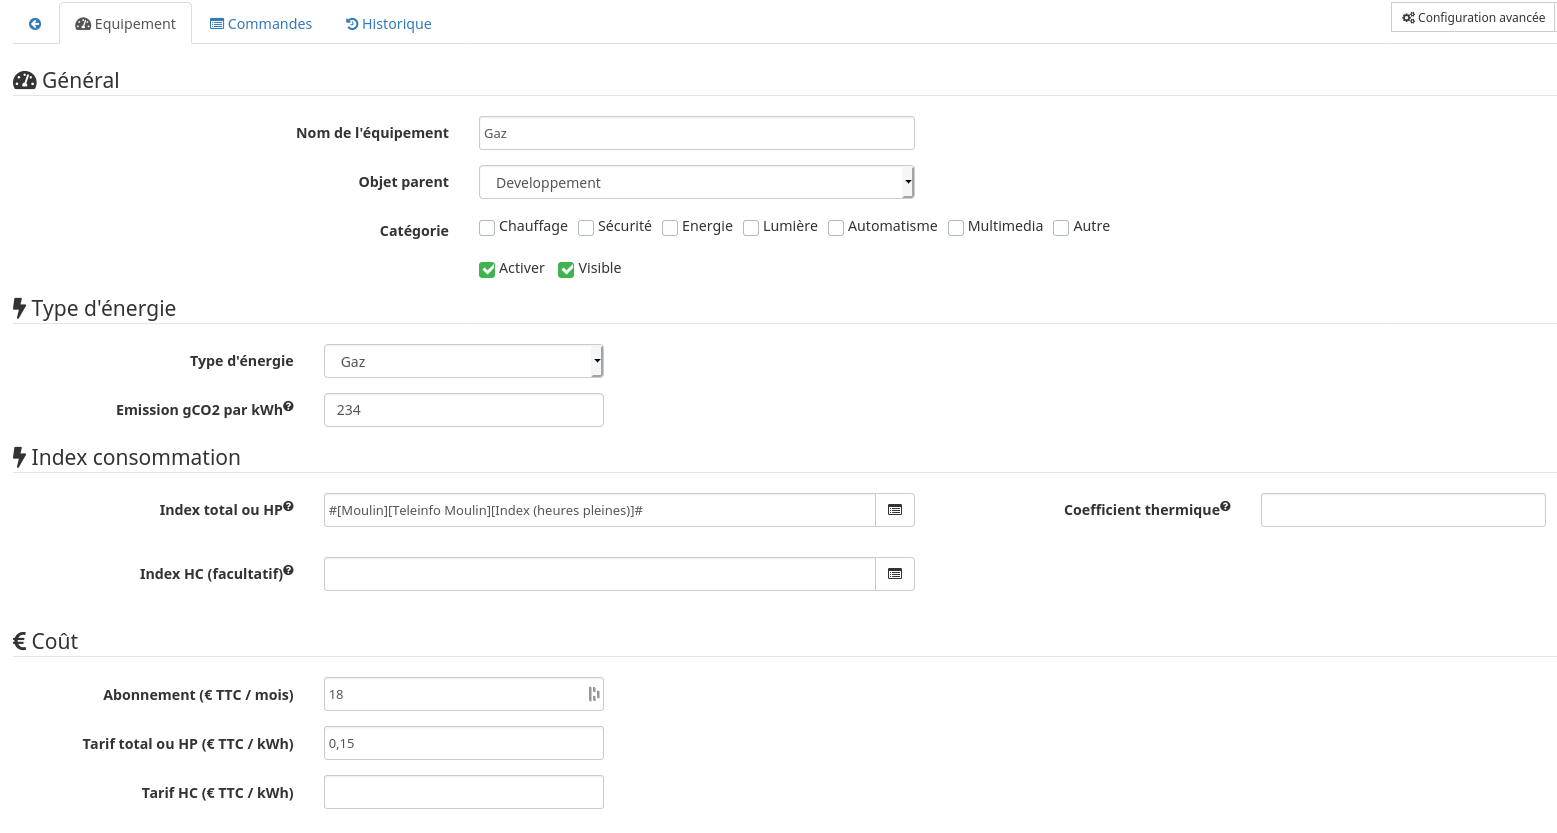
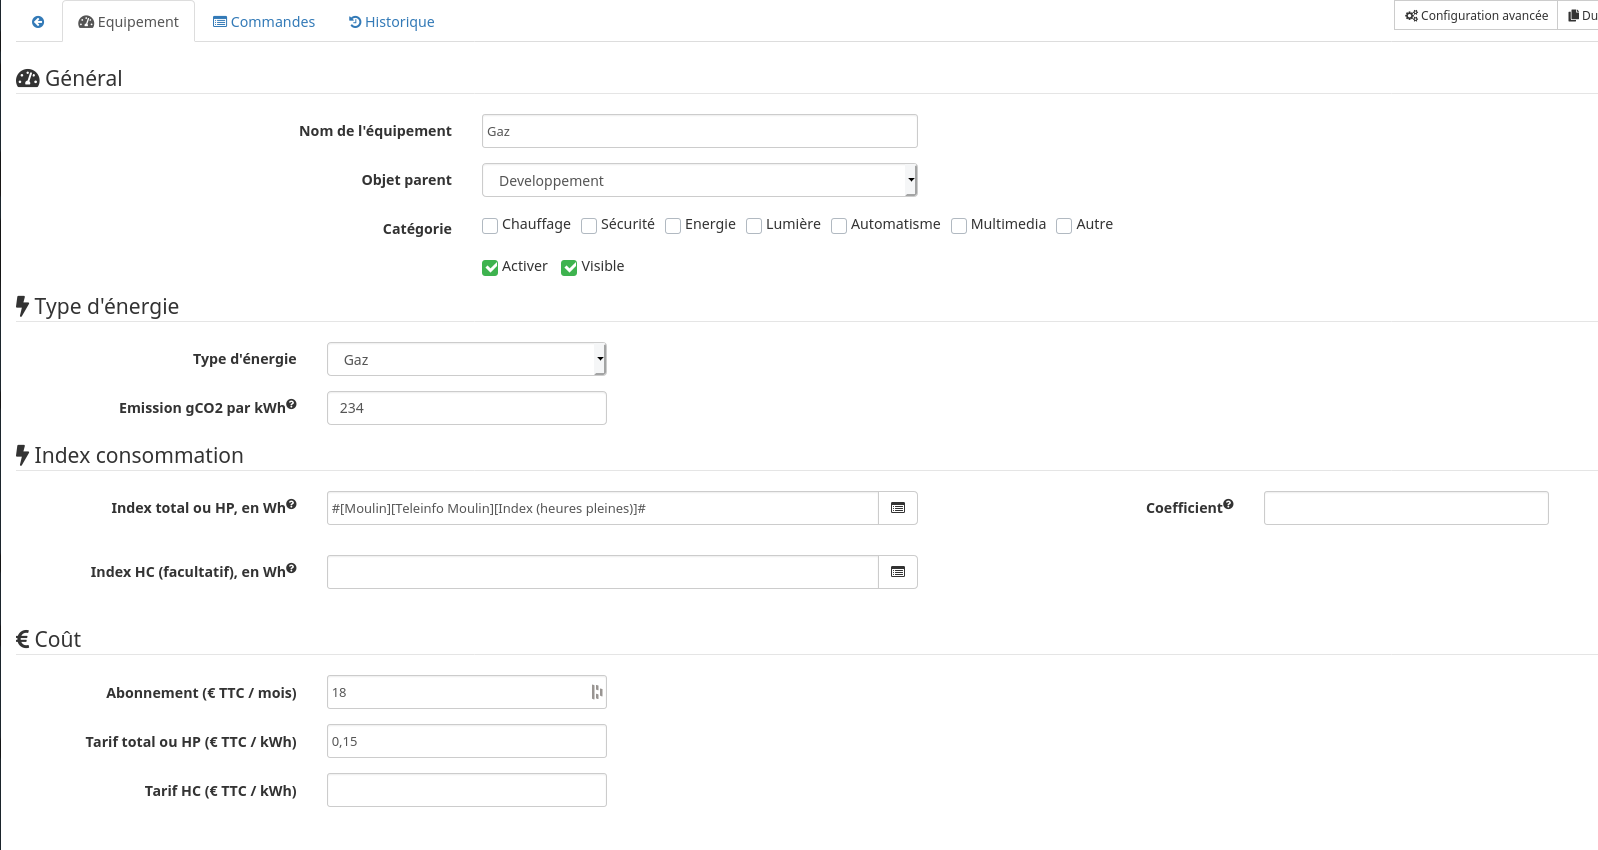
ajout coef pour elec aussi & mise a jour doc

diff --git a/desktop/php/suiviCO2.php b/desktop/php/suiviCO2.php
@@ -151,7 +151,7 @@ $dateCo2_def = array(
           <legend><i class="fas fa-bolt"></i> {{Index consommation}}</legend>
 
           <div class="form-group">
-            <label class="col-sm-2 control-label">{{Index total ou HP}}<sup><i class="fas fa-question-circle tooltips" title="{{En Wh ou M³ avec un coefficient thermique ou L avec un coefficient thermique}}"></i></sup></label>
+            <label class="col-sm-2 control-label">{{Index total ou HP, en Wh}}<sup><i class="fas fa-question-circle tooltips" title="{{En Wh ou m³ avec un coefficient thermique ou L avec un coefficient thermique}}"></i></sup></label>
             <div class="col-sm-4">
               <div class="input-group">
                 <input type="text" class="eqLogicAttr form-control tooltips roundedLeft" data-l1key="configuration" data-l2key="index_HP"/>
@@ -161,8 +161,8 @@ $dateCo2_def = array(
               </div>
             </div>
 
-            <div class="form-group type_gaz_fioul_autre">
-              <label class="col-sm-2 control-label">{{Coefficient thermique}}<sup><i class="fas fa-question-circle tooltips" title="{{Il s'agit du coefficient entre l'unité de la commande à gauche vers des Wh. Par exemple pour le gaz il s'agit de passer de m³ à Wh, le coefficient thermique étant donné sur votre facture. S'appliquera aux HP et HC}}"></i></sup></label>
+            <div class="form-group">
+              <label class="col-sm-2 control-label">{{Coefficient}}<sup><i class="fas fa-question-circle tooltips" title="{{Il s'agit du coefficient entre l'unité de la commande à gauche vers des Wh. Par exemple pour le gaz il s'agit de passer de m³ à Wh, le coefficient thermique étant donné sur votre facture. S'appliquera aux HP et HC. Vous pouvez aussi mettre un coefficient de 1000 pour passer de kWh à Wh}}"></i></sup></label>
               <div class="col-sm-2">
                 <input type="text" class="eqLogicAttr form-control" data-l1key="configuration" data-l2key="coef_thermique" />
               </div>
@@ -171,7 +171,7 @@ $dateCo2_def = array(
           </div>
 
           <div class="form-group">
-            <label class="col-sm-2 control-label">{{Index HC (facultatif)}}<sup><i class="fas fa-question-circle tooltips" title="{{En Wh ou m³ avec un coefficient thermique ou L avec un coefficient thermique. Ne pas remplir si vous n'avez pas d'index HC}}"></i></sup></label>
+            <label class="col-sm-2 control-label">{{Index HC (facultatif), en Wh}}<sup><i class="fas fa-question-circle tooltips" title="{{En Wh ou m³ avec un coefficient thermique ou L avec un coefficient thermique. Ne pas remplir si vous n'avez pas d'index HC}}"></i></sup></label>
               <div class="col-sm-4">
                 <div class="input-group">
                   <input type="text" class="eqLogicAttr form-control tooltips roundedLeft" data-l1key="configuration" data-l2key="index_HC"/>

diff --git a/core/class/suiviCO2.class.php b/core/class/suiviCO2.class.php
@@ -89,9 +89,9 @@ class suiviCO2 extends eqLogic {
           //on calcule la consommation entre les 2 derniers index
           $consumption = $index - $lastValue;
 
-          //si on est PAS en conso de type elec, et qu'on a un coef_thermique declaré, on va l'utiliser
-          if($suiviCO2->getConfiguration('conso_type') != 'elec' && $suiviCO2->getConfiguration('coef_thermique') != ''){
-            $coef_thermique = $suiviCO2->getConfiguration('coef_thermique');
+          //si on a un coef declaré et numerique, on va l'utiliser
+          $coef_thermique = $suiviCO2->getConfiguration('coef_thermique');
+          if($coef_thermique != '' && is_numeric($coef_thermique)){
             $consumption = $consumption*$coef_thermique;
           }
 
@@ -159,8 +159,9 @@ class suiviCO2 extends eqLogic {
 
                   if ($valueDateTime_prev == $datetimecherchee){
 
-                    if($this->getConfiguration('conso_type') != 'elec' && $this->getConfiguration('coef_thermique') != ''){ //si on est PAS en conso de type elec, et qu'on a un coef_thermique declaré, on va l'utiliser
-                      $coef_thermique = $this->getConfiguration('coef_thermique');
+                    //si on a un coef declaré et numerique, on va l'utiliser
+                    $coef_thermique = $this->getConfiguration('coef_thermique');
+                    if($coef_thermique != '' && is_numeric($coef_thermique)){
                       $conso = round($value*$coef_thermique - $value_prev*$coef_thermique, 0);
               //        log::add('suiviCO2', 'debug', 'coef_thermique :' . $coef_thermique . ' - conso calculée : ' . $conso);
                     } else {

diff --git a/docs/fr_FR/index.md b/docs/fr_FR/index.md
@@ -34,14 +34,14 @@ Cliquer sur la commande permet de visualiser son historique :
 ### Configuration pour équipement électrique :
 ![](https://raw.githubusercontent.com/AgP42/suiviCO2/dev/docs/assets/images/OngletEquipementElec.png)
 - Choisir Type d'énergie "Electricité"
-- Index de consommation à fournir en Wh (unité de base de la téléinformation). Si vous n'avez pas d'heures creuses, laisser le champs vide
+- Index de consommation à fournir en Wh (unité de base de la téléinformation). Si vous n'avez pas d'heures creuses, laisser le champs vide. Si votre consommation n'est pas en Wh, vous pouvez remplir le champ "Coefficient" permettant de réaliser la conversion d'unité.
 - Remplir vos coûts d'abonnement et de consommation par kWh
 
 ### Configuration pour équipement de type gaz, fioul ou autre :
 ![](https://raw.githubusercontent.com/AgP42/suiviCO2/dev/docs/assets/images/OngletEquipementOther.png)
 - Choisir Type d'énergie voulu
 - Fournir la valeur de g de CO2 émis par kWh consommé. Ce champs n'est pas à fournir pour l'électricité car l'information provient alors d'une API avec actualisation toutes les 15 min. Cette valeur usuelle pour votre type d'énergie se trouve sur internet.
-- Index de consommation à fournir en Wh. Si vous n'avez pas d'heures creuses, laisser le champs vide. Si votre consommation n'est pas en Wh, vous pouvez remplir le champ "Coefficient thermique" permettant de réaliser la conversion d'unité. Ce Coefficient est normalement donné sur votre facture, il dépend notamment de votre région.
+- Index de consommation à fournir en Wh. Si vous n'avez pas d'heures creuses, laisser le champs vide. Si votre consommation n'est pas en Wh, vous pouvez remplir le champ "Coefficient" permettant de réaliser la conversion d'unité. Ce Coefficient est normalement donné sur votre facture, il dépend notamment de votre région.
 - Remplir vos coûts d'abonnement et de consommation par kWh.
 
 Onglet Commandes
